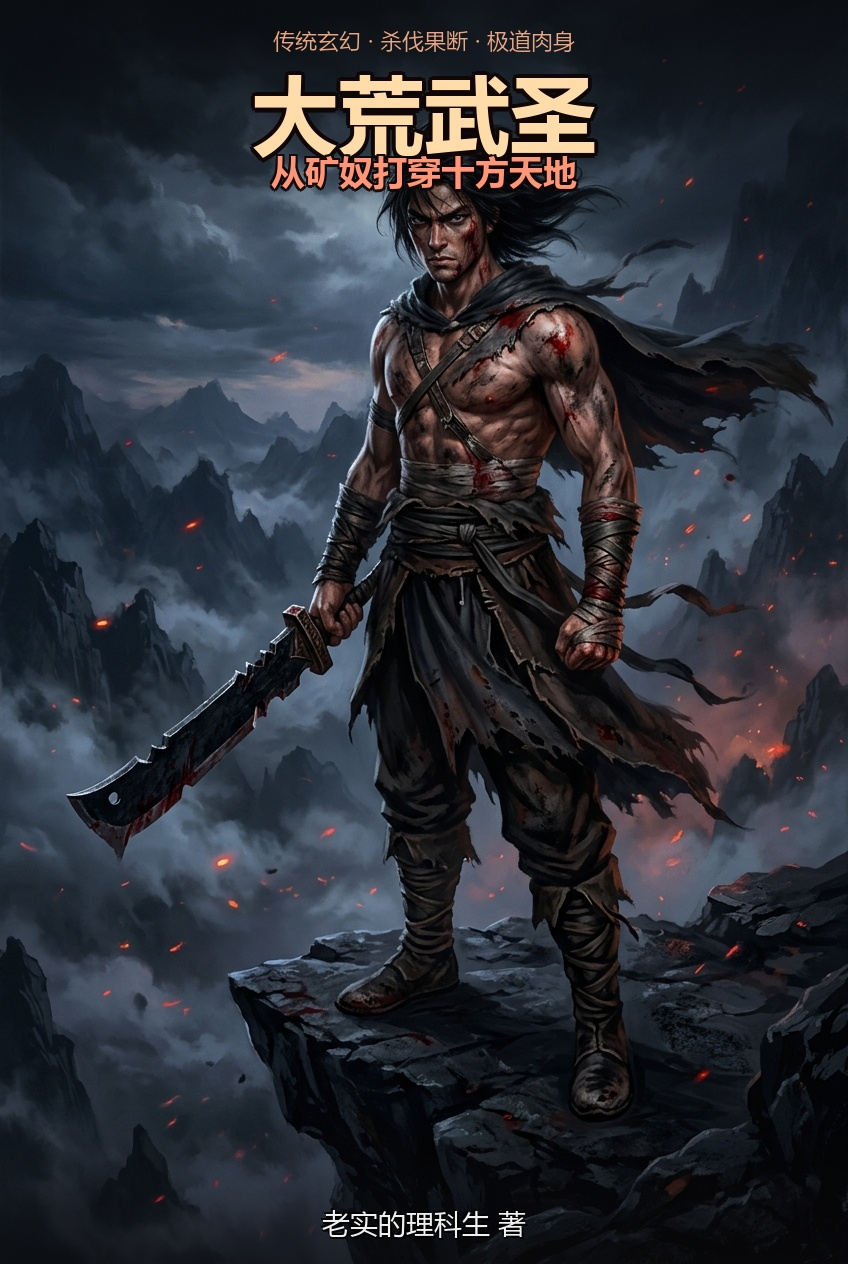
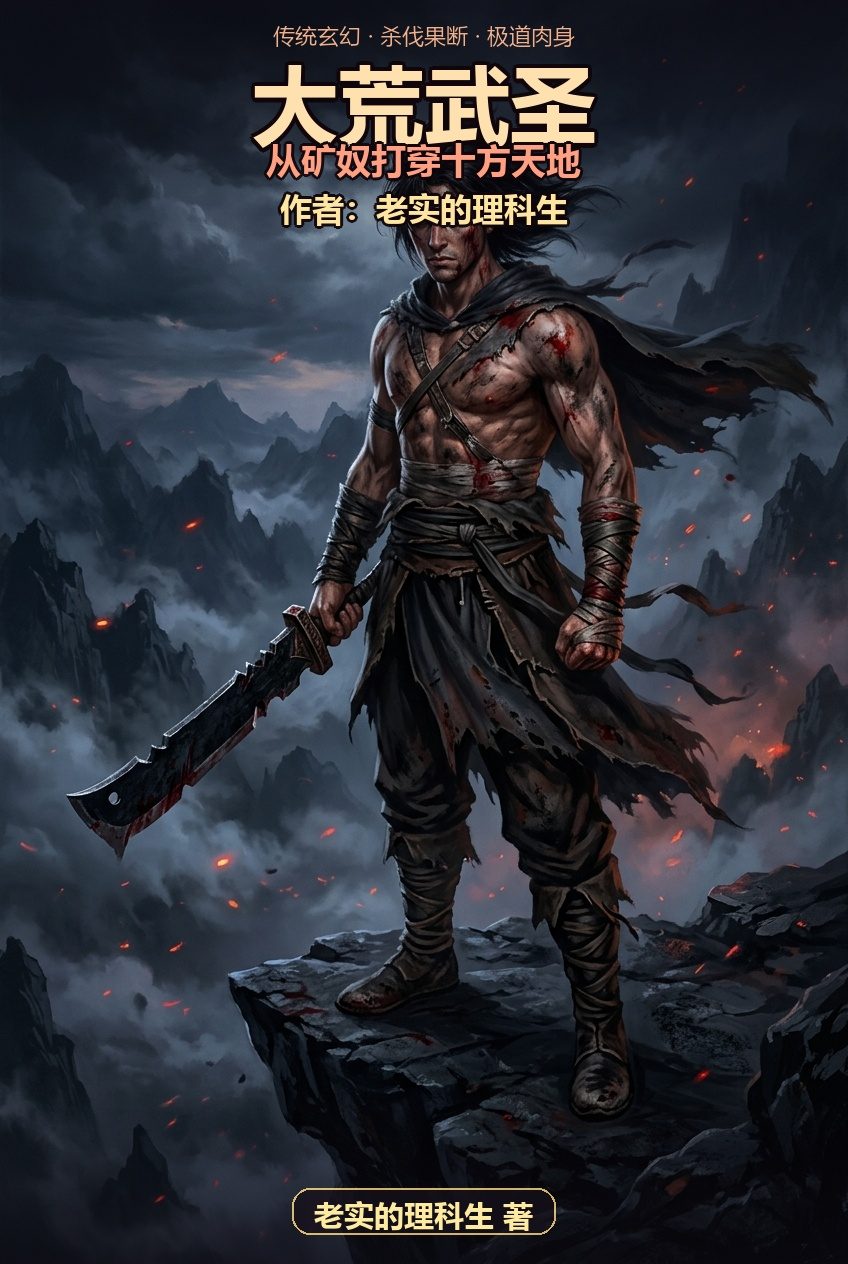
fix(covers): make author '老实的理科生' highly prominent on all serial covers

Changed region(s): [[0.2759, 0.0, 0.7052, 0.1851], [0.3373, 0.9256, 0.6439, 0.9873], [0.6439, 0.2468, 0.6745, 0.2777]]

diff --git a/tools/make_covers.py b/tools/make_covers.py
@@ -1,0 +1,129 @@
+import os
+import subprocess
+from PIL import Image, ImageDraw, ImageFont
+
+font_bold = "C:/Windows/Fonts/msyhbd.ttc"
+font_regular = "C:/Windows/Fonts/msyh.ttc"
+
+books = [
+    {
+        "file": "serial-suanli-guzhou.jpg",
+        "title": "大梁精算师",
+        "sub": "我的Token只剩一百亿",
+        "tag": "历史脑洞 · 算力求生",
+        "author": "作者：老实的理科生",
+        "title_color": (248, 250, 255),
+        "sub_color": (140, 215, 255),
+        "tag_color": (180, 210, 240),
+        "author_color": (255, 225, 140),
+        "ty": 75, "sy": 175, "ay": 230,
+        "title_size": 82, "sub_size": 36, "author_size": 34
+    },
+    {
+        "file": "serial-tianming-fanpai.jpg",
+        "title": "天命大反派",
+        "sub": "我的后宫全员重生了",
+        "tag": "东方玄幻 · 逆天改命 · 后宫修罗场",
+        "author": "作者：老实的理科生",
+        "title_color": (255, 238, 168),
+        "sub_color": (255, 210, 220),
+        "tag_color": (255, 225, 170),
+        "author_color": (255, 235, 150),
+        "ty": 55, "sy": 145, "ay": 195,
+        "title_size": 84, "sub_size": 35, "author_size": 32
+    },
+    {
+        "file": "serial-lianai-daka.jpg",
+        "title": "刚绑恋爱打卡系统",
+        "sub": "高冷学姐怎么全知情？",
+        "tag": "都市脑洞 · 校园恋爱 · 反向读心",
+        "author": "作者：老实的理科生",
+        "title_color": (255, 245, 250),
+        "sub_color": (255, 200, 225),
+        "tag_color": (255, 225, 235),
+        "author_color": (255, 235, 160),
+        "ty": 50, "sy": 132, "ay": 182,
+        "title_size": 72, "sub_size": 35, "author_size": 32
+    },
+    {
+        "file": "serial-dahuang-wusheng.jpg",
+        "title": "大荒武圣",
+        "sub": "从矿奴打穿十方天地",
+        "tag": "传统玄幻 · 杀伐果断 · 极道肉身",
+        "author": "作者：老实的理科生",
+        "title_color": (255, 225, 175),
+        "sub_color": (255, 160, 130),
+        "tag_color": (255, 185, 145),
+        "author_color": (255, 230, 160),
+        "ty": 45, "sy": 135, "ay": 186,
+        "title_size": 86, "sub_size": 35, "author_size": 32
+    }
+]
+
+for b in books:
+    clean_path = "clean_" + b["file"]
+    with open(clean_path, "wb") as f:
+        subprocess.run(["git", "show", "f0457aa:covers/" + b["file"]], stdout=f, check=True)
+    
+    base = Image.open(clean_path).convert("RGBA")
+    w, h = base.size
+    overlay = Image.new("RGBA", (w, h), (0, 0, 0, 0))
+    draw = ImageDraw.Draw(overlay)
+    
+    # Top gradient for typography
+    for y in range(int(h * 0.32)):
+        alpha = int(170 * (1 - y / (h * 0.32)))
+        draw.line([(0, y), (w, y)], fill=(12, 10, 18, alpha))
+    
+    # Bottom gradient for author pill
+    for y in range(int(h * 0.86), h):
+        alpha = int(170 * ((y - h * 0.86) / (h * 0.14)))
+        draw.line([(0, y), (w, y)], fill=(12, 10, 18, alpha))
+    
+    t_font = ImageFont.truetype(font_bold, b["title_size"])
+    s_font = ImageFont.truetype(font_bold, b["sub_size"])
+    tag_font = ImageFont.truetype(font_regular, 22)
+    a_font = ImageFont.truetype(font_bold, b["author_size"])
+    bottom_a_font = ImageFont.truetype(font_bold, 30)
+    
+    # Tag
+    bbox = draw.textbbox((0, 0), b["tag"], font=tag_font)
+    draw.text(((w - (bbox[2] - bbox[0])) // 2, 20), b["tag"], font=tag_font, fill=(*b["tag_color"], 240))
+    
+    # Title
+    bbox = draw.textbbox((0, 0), b["title"], font=t_font)
+    tx, ty = (w - (bbox[2] - bbox[0])) // 2, b["ty"]
+    for dx, dy in [(-3, -3), (-3, 3), (3, -3), (3, 3), (0, 4), (4, 0), (0, -4), (-4, 0), (0, 5), (-2, 4), (2, 4)]:
+        draw.text((tx + dx, ty + dy), b["title"], font=t_font, fill=(15, 5, 10, 250))
+    draw.text((tx, ty), b["title"], font=t_font, fill=(*b["title_color"], 255))
+    
+    # Subtitle
+    bbox = draw.textbbox((0, 0), b["sub"], font=s_font)
+    sx, sy = (w - (bbox[2] - bbox[0])) // 2, b["sy"]
+    for dx, dy in [(-2, -2), (-2, 2), (2, -2), (2, 2), (0, 3), (0, -3), (3, 0), (-3, 0)]:
+        draw.text((sx + dx, sy + dy), b["sub"], font=s_font, fill=(15, 5, 10, 240))
+    draw.text((sx, sy), b["sub"], font=s_font, fill=(*b["sub_color"], 255))
+    
+    # Author line under subtitle
+    bbox = draw.textbbox((0, 0), b["author"], font=a_font)
+    ax, ay = (w - (bbox[2] - bbox[0])) // 2, b["ay"]
+    for dx, dy in [(-2, -2), (-2, 2), (2, -2), (2, 2), (0, 3), (3, 0), (0, -3), (-3, 0)]:
+        draw.text((ax + dx, ay + dy), b["author"], font=a_font, fill=(15, 5, 10, 245))
+    draw.text((ax, ay), b["author"], font=a_font, fill=(*b["author_color"], 255))
+    
+    # Bottom author badge (rounded rect / pill)
+    bottom_text = "老实的理科生 著"
+    bbox = draw.textbbox((0, 0), bottom_text, font=bottom_a_font)
+    bw = bbox[2] - bbox[0]
+    bh = bbox[3] - bbox[1]
+    px, py = (w - bw) // 2, h - 70
+    draw.rounded_rectangle([px - 22, py - 6, px + bw + 22, py + bh + 10], radius=18, fill=(20, 15, 25, 220), outline=(255, 215, 120, 210), width=2)
+    draw.text((px, py), bottom_text, font=bottom_a_font, fill=(255, 235, 160, 255))
+    
+    final = Image.alpha_composite(base, overlay).convert("RGB")
+    final.save("covers/" + b["file"], quality=95)
+    if os.path.exists(clean_path):
+        os.remove(clean_path)
+    print("Generated covers/" + b["file"])
+
+print("All done!")
